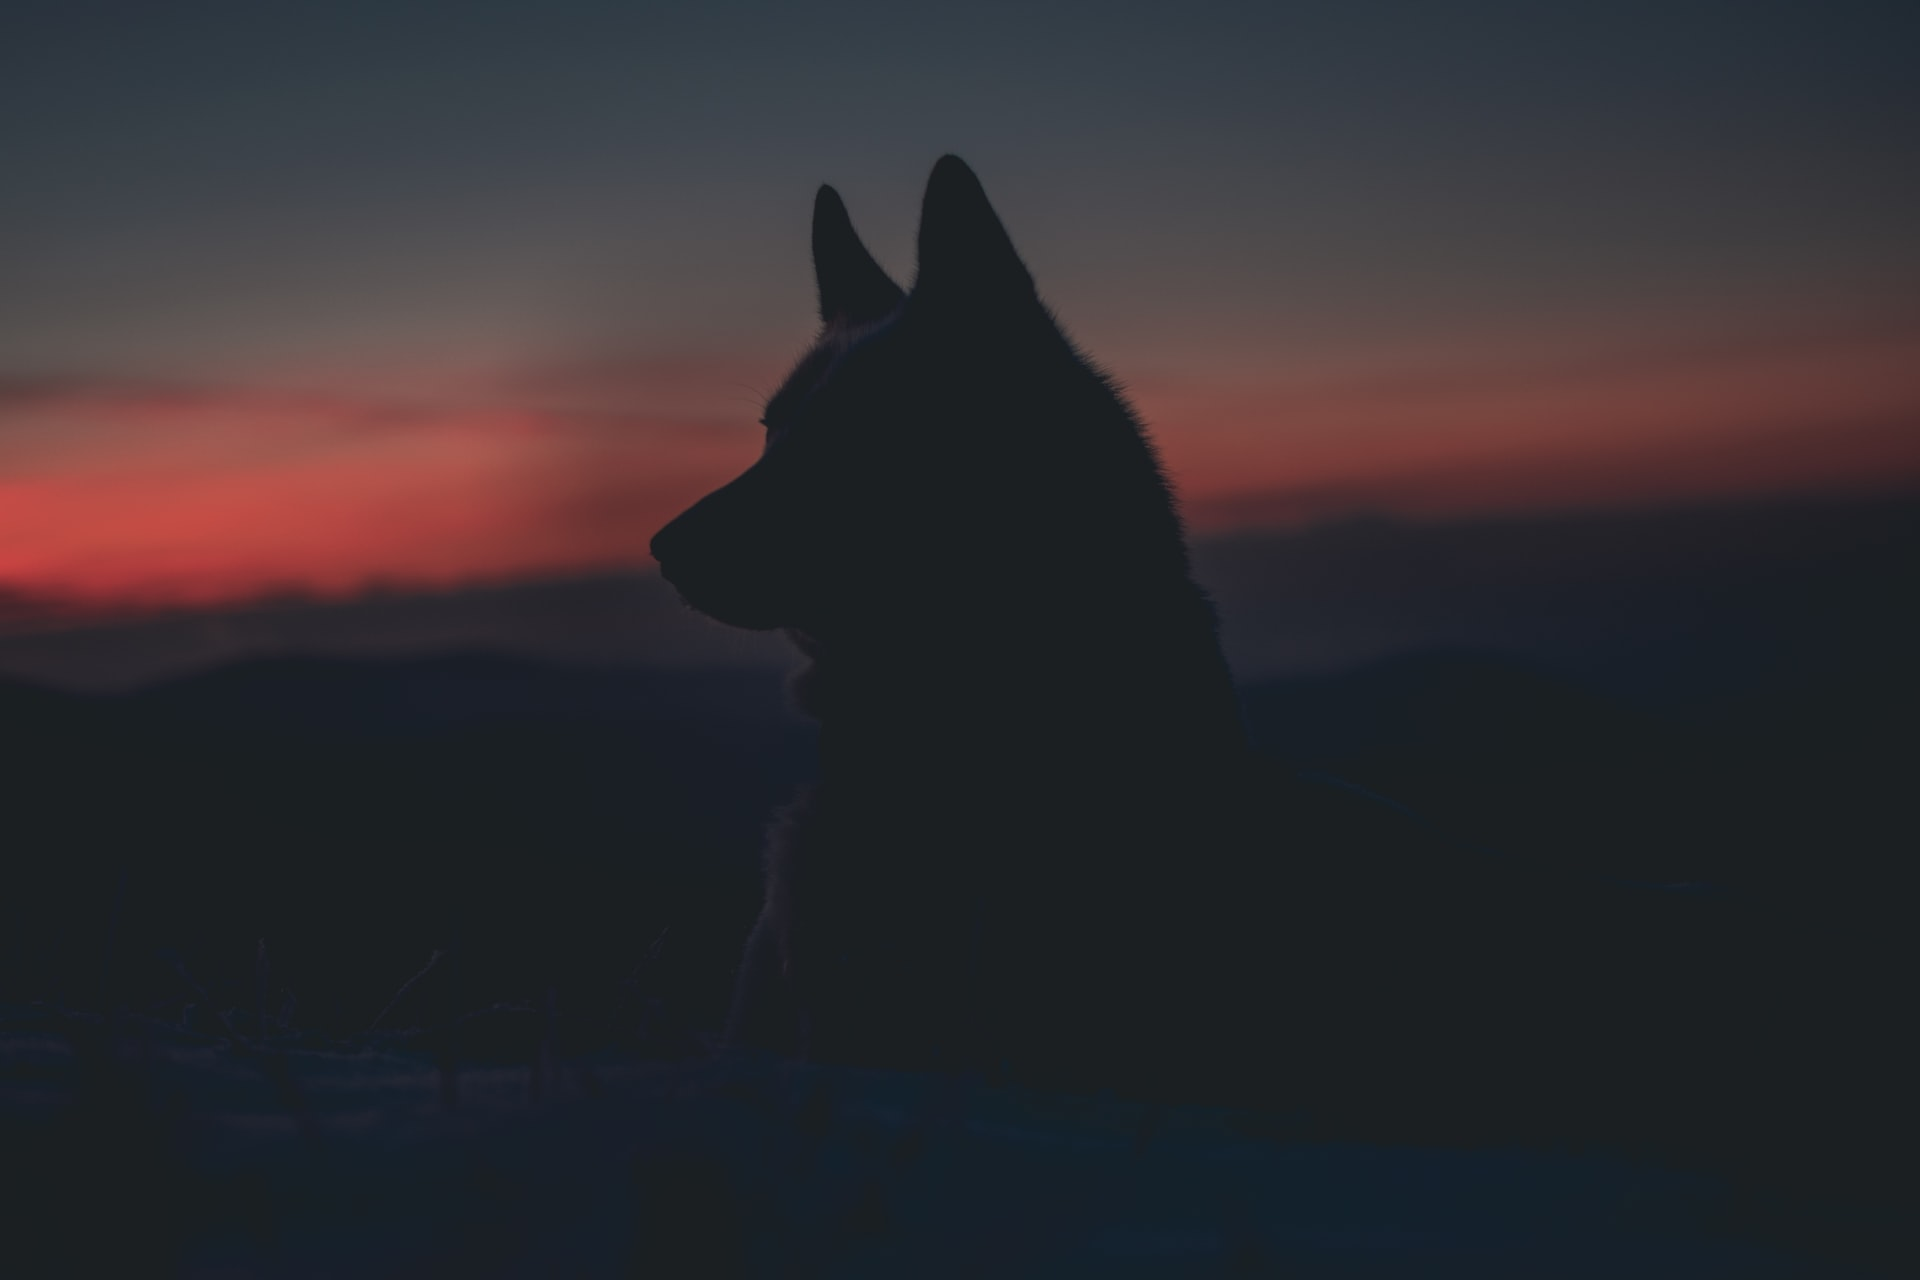
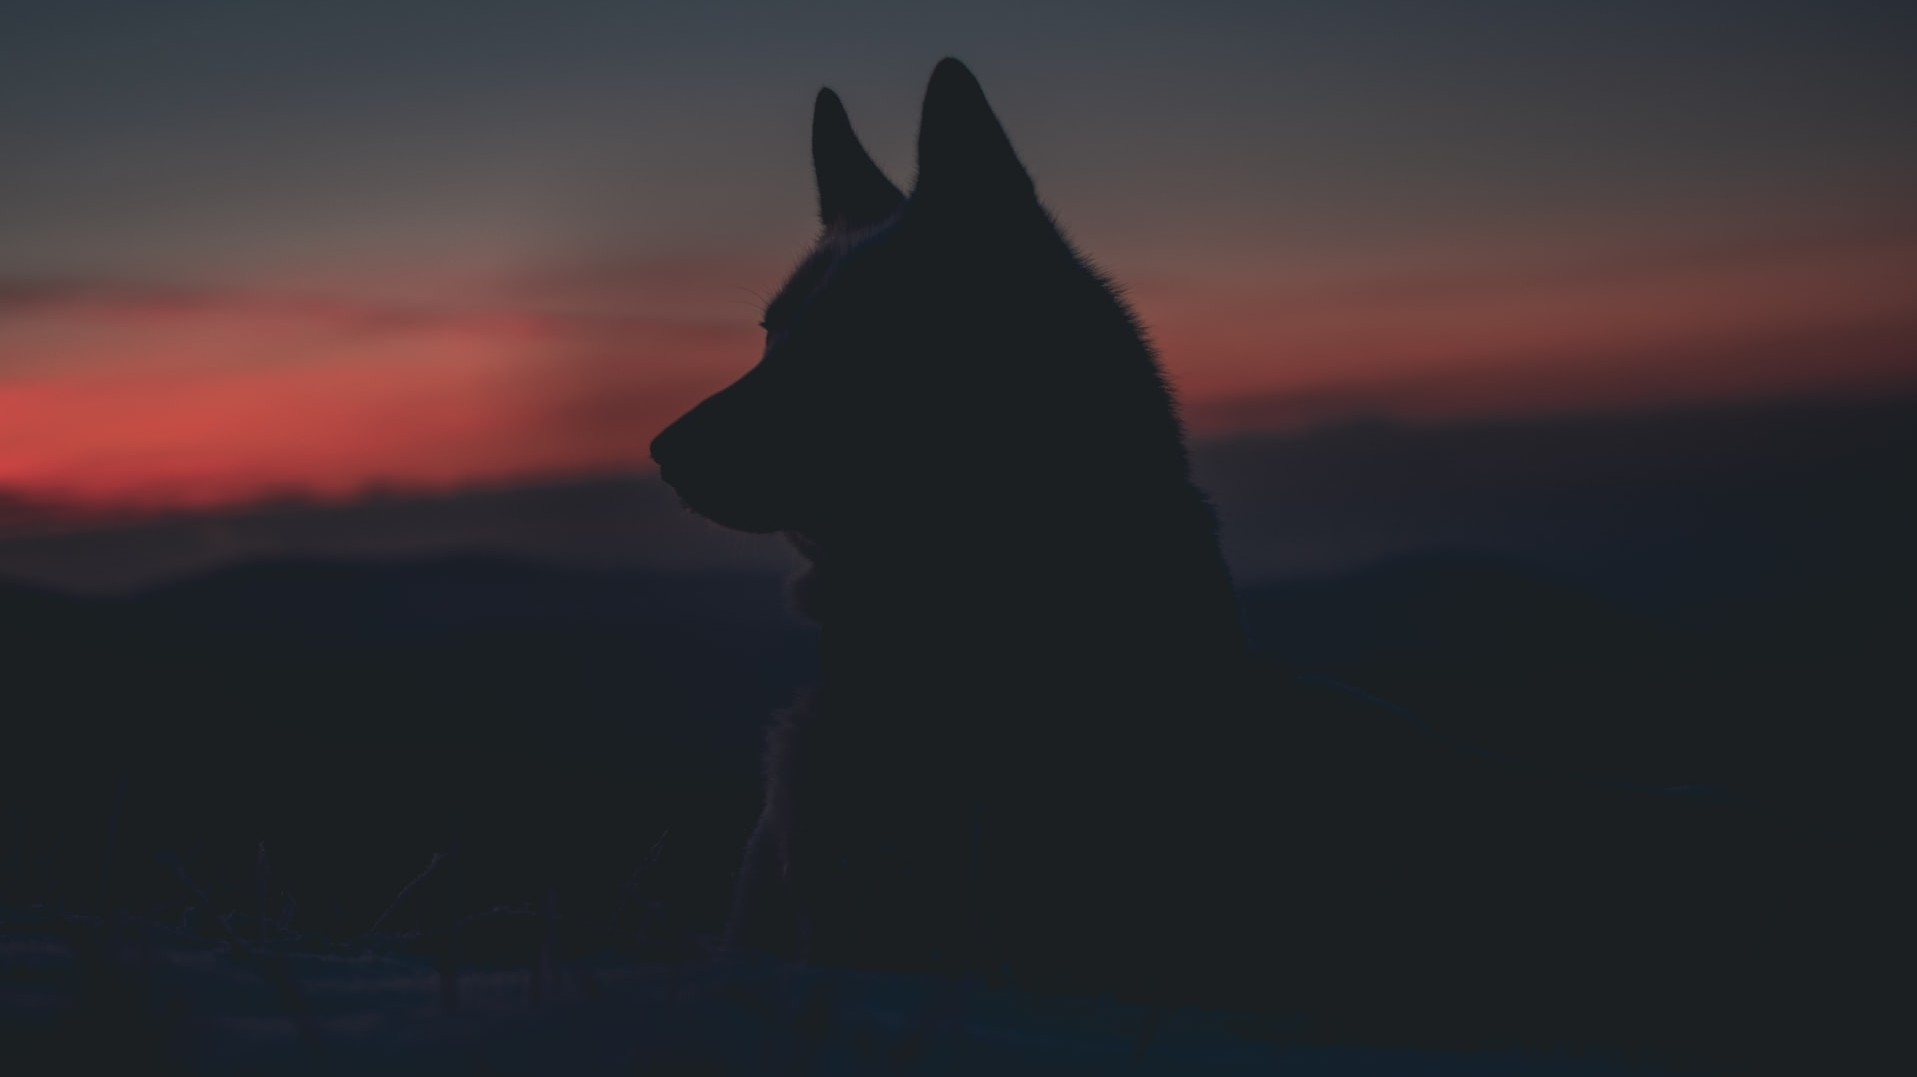
Add Hero body css and change left/right padding
Utilising vw for left/right padding over set pixels. Added link to the
hero image. Cropped image file to better web page formatting.

diff --git a/index.html b/index.html
@@ -9,7 +9,7 @@
 </head>
 <body>
   <div class="header">
-    <img class="hero-img" src="images/wolf-moon-graphic.png">
+    <img class="logo-img" src="images/wolf-moon-graphic.png">
     <h3>Jazz Devours</h3>
     <ul>
       <li><a href="#">Cool Wolf Song</a></li>
@@ -18,12 +18,13 @@
     </ul>
   </div>
   <div class="hero-body">
-        <div class="hero-content">
-            <h1>Night Stalker Designs</h1>
-            <p class="hero-text">Designing the greatest and coolest wolf websites and utilising the greatest illustrations the internet has ever witnessed. <strong>Join the pack today!</strong></p>
-            <button>Sign Up</button>
-        </div>
-        <img src="#">
+    <div class="hero-content">
+      <h1>Night Stalker Designs</h1>
+      <p class="hero-text">Designing the greatest and coolest wolf websites and utilising the greatest illustrations the internet has ever witnessed.</p> 
+      <p class="hero-text"><strong>Join the pack today!</strong></p>
+      <button>Sign Up</button>
+    </div>
+    <img class="hero-img" src="images/wolf-sunset-silhoette-marek-szturc.jpg">
   </div>
   <h2>Wolf Inspiration & Memorabilia</h2>
   <div class="information-content">

diff --git a/styles.css b/styles.css
@@ -5,6 +5,10 @@ body {
   margin: 0;
 }
 
+p {
+  margin: 8px 0;
+}
+
 a {
   text-decoration: none;
   color: #e5e7eb;
@@ -15,10 +19,10 @@ ul {
   display: flex;
   margin-left: auto;
   padding: 0;
+  gap: 16px
 }
 
 li {
-  margin-right: 16px;
   font-size: 18px;
   color: #e5e7eb;
 }
@@ -27,7 +31,14 @@ li {
   background-color: #1f2937;
   display: flex;
   align-items: center;
-  padding: 8px 250px;
+  padding: 8px 10vw;
+}
+
+h1 {
+  font-size: 48px;
+  font-weight: bolder;
+  color: #f9faf8;
+  margin: 8px 0;
 }
 
 h3 {
@@ -36,7 +47,40 @@ h3 {
   margin-left: 5px;
 }
 
-.hero-img {
+.logo-img {
   max-width: 70px;
   height: auto;
+}
+
+.hero-img {
+  flex: 2;
+  min-width: 600px;
+  max-width: 900px;
+  height: 100%;
+}
+
+.hero-body {
+  background-color: #1f2937;
+  padding: 100px 10vw 150px;
+  display: flex;
+}
+
+.hero-content {
+  margin-right: 32px;
+  flex: 1;
+}
+
+.hero-text {
+  font-size: 18px;
+  color: #e5e7eb;
+}
+
+button {
+  background-color: #3882f6;
+  color: #f9faf8;
+  font-size: 18px;
+  padding: 8px 32px;
+  border-radius:8px;
+  border-style: none;
+  font-weight: bold;
 }
